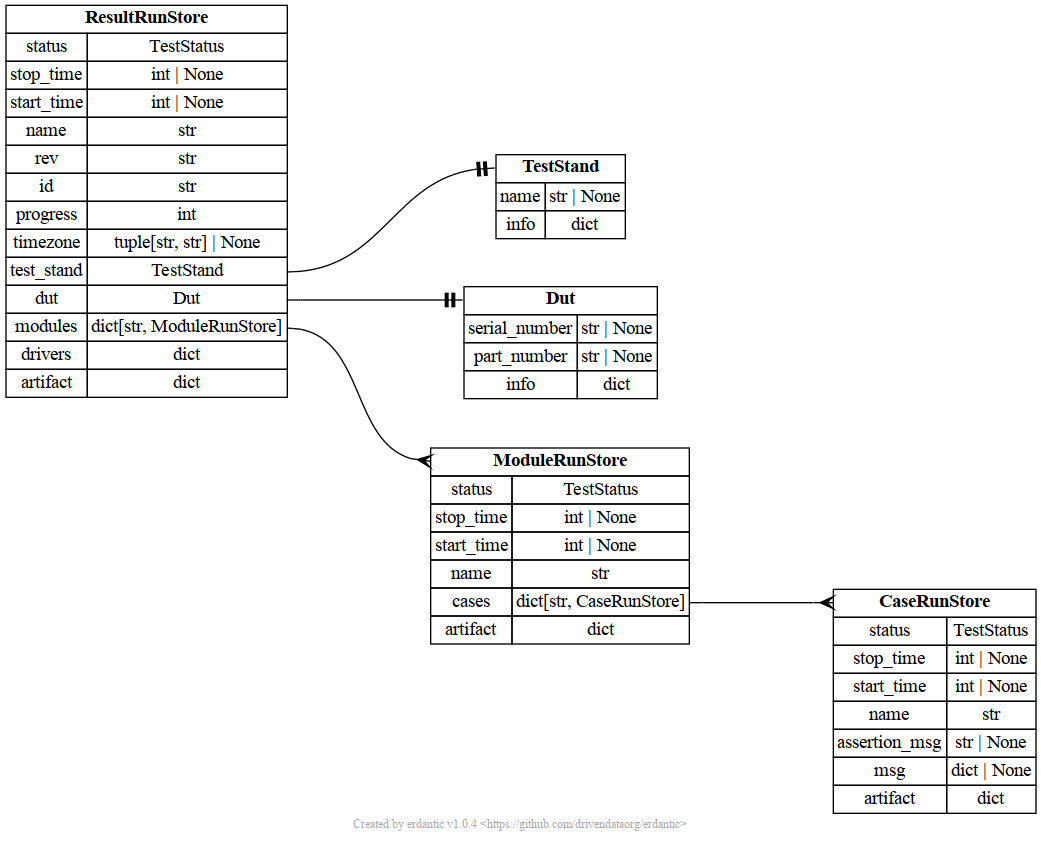
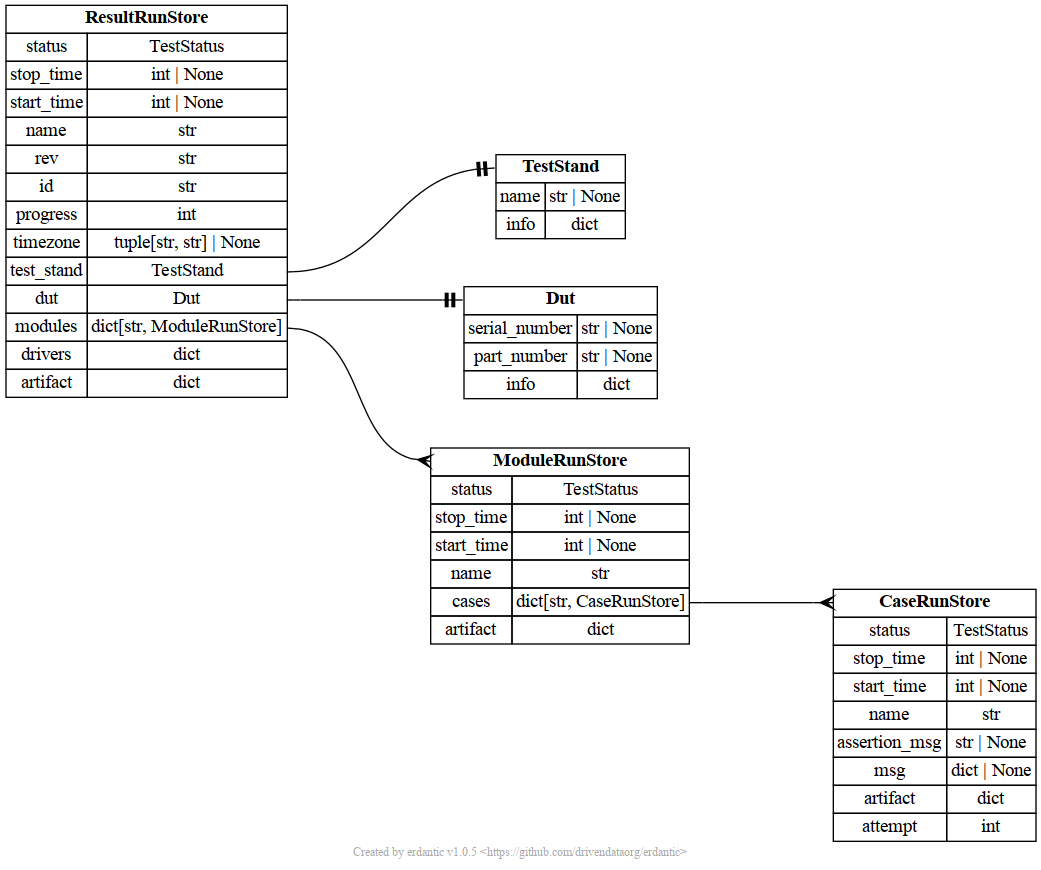
[docs] Add case attempts to db

diff --git a/docs/documentation/database.md b/docs/documentation/database.md
@@ -242,6 +242,7 @@ The **modules** block contains the following fields:
         - **stop_time**: test end time in Unix second;
         - **assertion_msg**: error message if the test fails;
         - **msg**: additional message;
+        - **attempt**: attempt counting to pass the case, not yet implemented in the **pytest-hardpy** plugin;
         - **dialog_box**: information about dialog box;
           - **title_bar**: title bar of the dialog box;
           - **dialog_text**: text displayed in the dialog box;
@@ -304,6 +305,7 @@ Example of a **current** document:
               "stop_time": 1695817264,
               "assertion_msg": null,
               "msg": null,
+              "attempt": 1,
               "dialog_box": {
                 "title_bar": "Dialog box title",
                 "dialog_text": "Dialog box text",
@@ -328,6 +330,7 @@ Example of a **current** document:
               "msg": [
                 "Current minute 21"
               ],
+              "attempt": 1,
               "dialog_box": {}
             },
           }
@@ -388,6 +391,7 @@ The **modules** block contains the following fields:
         - **stop_time**: test end time in Unix second;
         - **assertion_msg**: error message if the test fails;
         - **msg**: additional message;
+        - **attempt**: attempt counting to pass the case, not yet implemented in the **pytest-hardpy** plugin;
         - **artifact**: an object containing information about artifacts created during the test case process.
 
 Example of a **current** document:
@@ -448,6 +452,7 @@ Example of a **current** document:
               "stop_time": 1695817264,
               "assertion_msg": null,
               "msg": null,
+              "attempt": 1,
               "artifact": {"data_str": "456DATA"}
             },
             "test_minute_parity": {
@@ -459,6 +464,7 @@ Example of a **current** document:
               "msg": [
                 "Current minute 21"
               ],
+              "attempt": 1,
               "artifact": {
                 "data_str": "123DATA",
                 "data_int": 12345,
